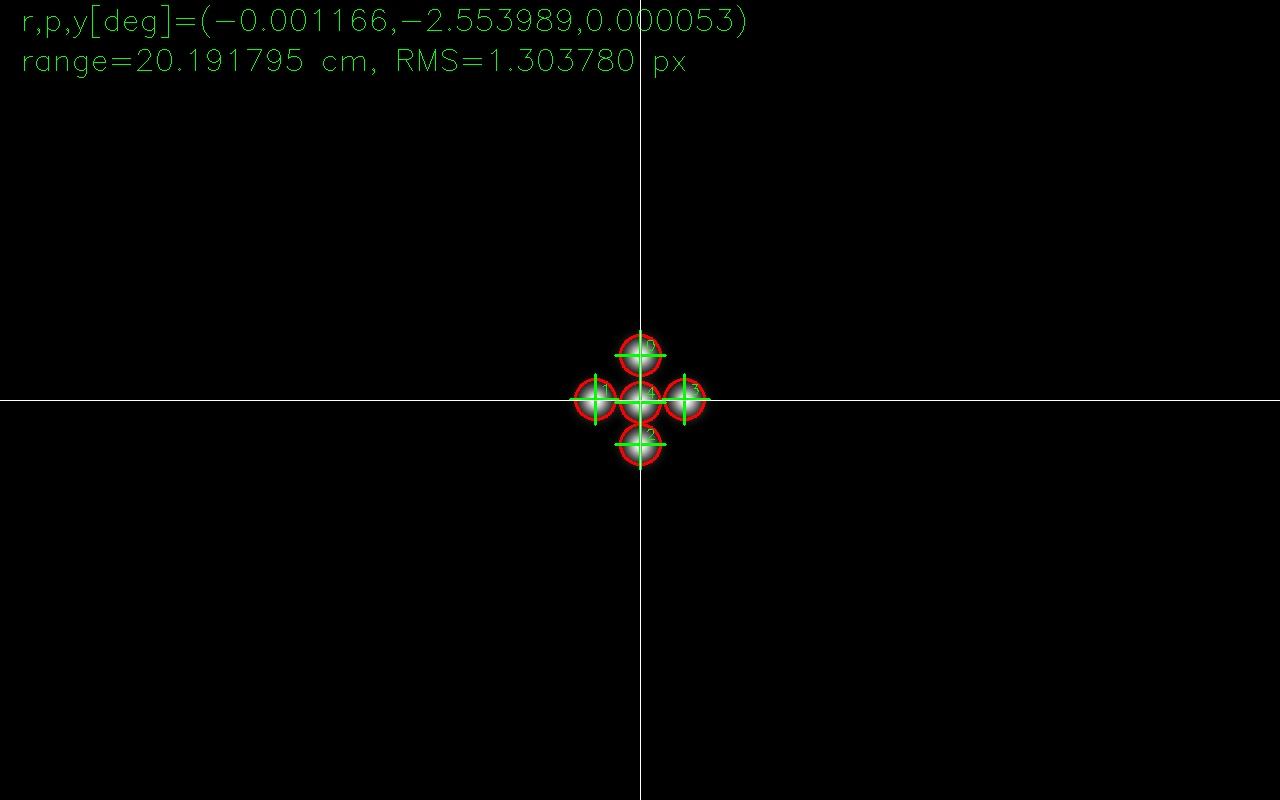
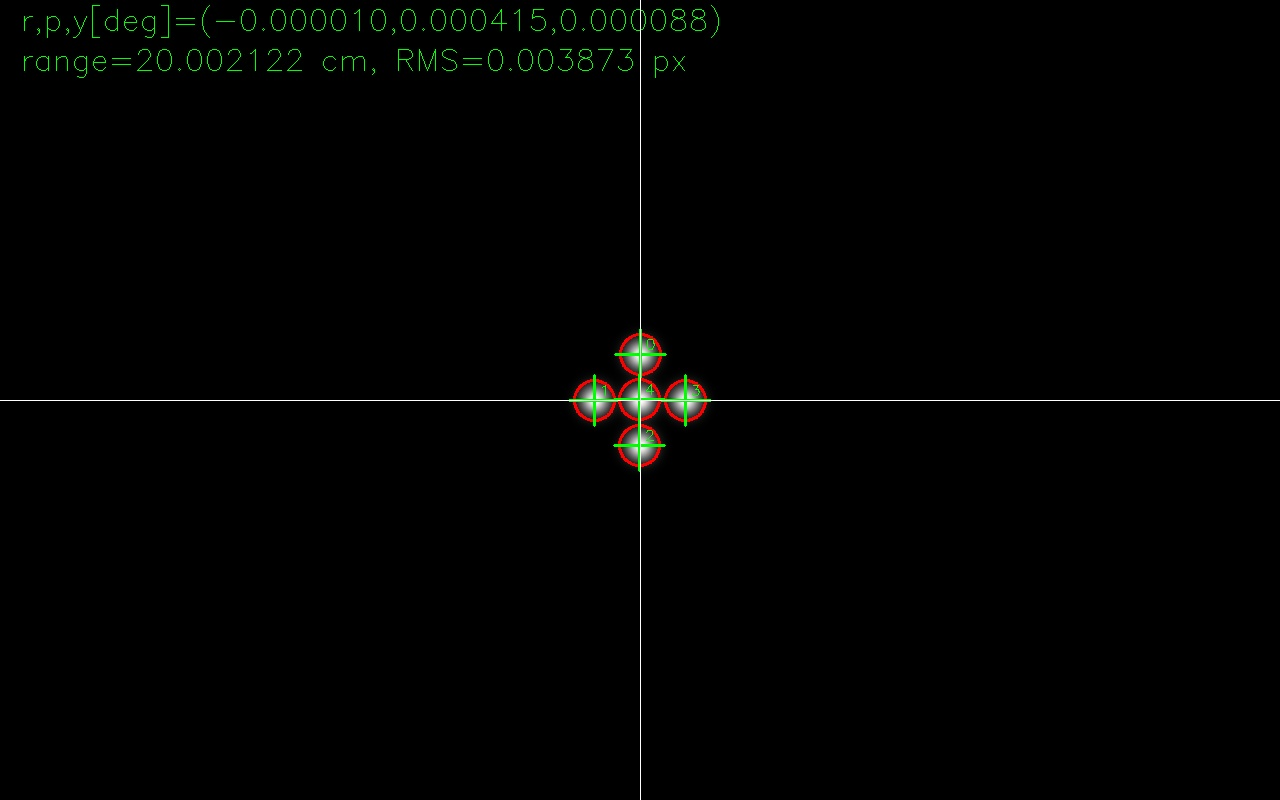
Implemented sub-pixel blob centroid placement in image_simulator_new.py

diff --git a/tools/image_simulator_new.py b/tools/image_simulator_new.py
@@ -5,7 +5,7 @@ import cv2
 # CONFIGURATION
 
 # CAMERA POSE WRT TARGET PATTERN
-RANGE_M = 0.27         # Distance from camera to pattern origin (along camera
+RANGE_M = 0.20         # Distance from camera to pattern origin (along camera
 AZIMUTH_DEG = 0.0   # Rotation around Hill Frame (+Z) camera vertical axis (+Y)
 ELEVATION_DEG = 0.0 # Rotation around Hill Frame (+Y) camera horizontal axis (+X)
 ROLL_DEG  = 0.0     # Rotation around Hill Frame x-axis, Camera z-axis
@@ -14,7 +14,7 @@ YAW_DEG   = 0.0     # Rotation around Hill Frame z-axis, Camera y-axis
 
 # Image Resolution
 W, H = 1280, 800
-BIT_DEPTH = 8          # 8, 10, 12, ... up to 16
+BIT_DEPTH = 16          # 8, 10, 12, ... up to 16
 BLACK_DN = 0            # 0..(2^BIT_DEPTH - 1)
 
 OUT_PATH  = "tools/frame_actual.png"
@@ -107,17 +107,23 @@ def apply_psf_blur(image, ksize=21, sigma=3.0):
     return image
 
 def add_gaussian_blob(image, center_px, peak_dn, sigma_px, half_width_px=10):
-    cx = int(round(center_px[0]))
-    cy = int(round(center_px[1]))
 
-    x0 = max(0, cx - half_width_px); x1 = min(W, cx + half_width_px + 1)
-    y0 = max(0, cy - half_width_px); y1 = min(H, cy + half_width_px + 1)
+    # Sub-pixel centroids
+    cx = float(center_px[0])
+    cy = float(center_px[1])
+
+    x0 = max(0, int(np.floor(cx - half_width_px)))
+    x1 = min(W, int(np.ceil (cx + half_width_px + 1)))
+    y0 = max(0, int(np.floor(cy - half_width_px)))
+    y1 = min(H, int(np.ceil (cy + half_width_px + 1)))
+
     if x0 >= x1 or y0 >= y1:
         return image
 
     xs = (np.arange(x0, x1) - cx).astype(np.float32)
     ys = (np.arange(y0, y1) - cy).astype(np.float32)
     X, Y = np.meshgrid(xs, ys)
+    
     G = np.exp(-(X*X + Y*Y) / (2.0 * sigma_px * sigma_px))
 
     patch = peak_dn * G
